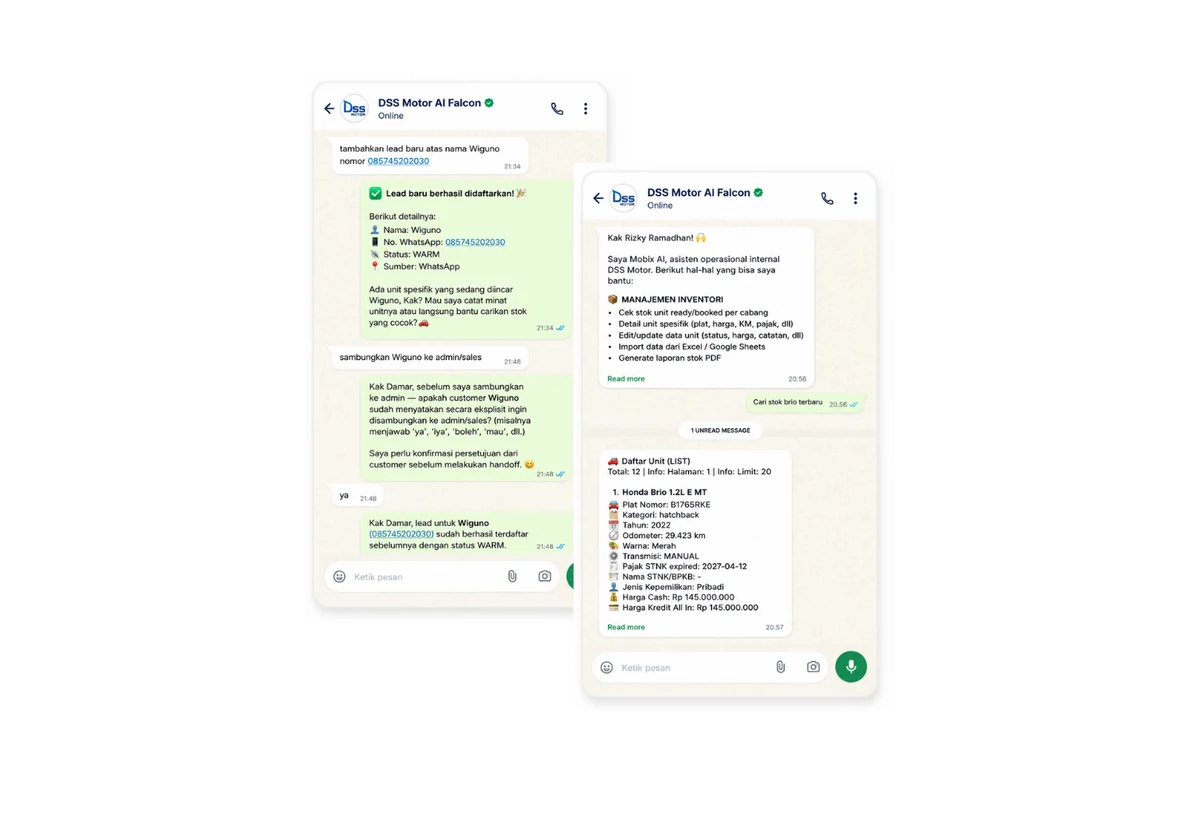
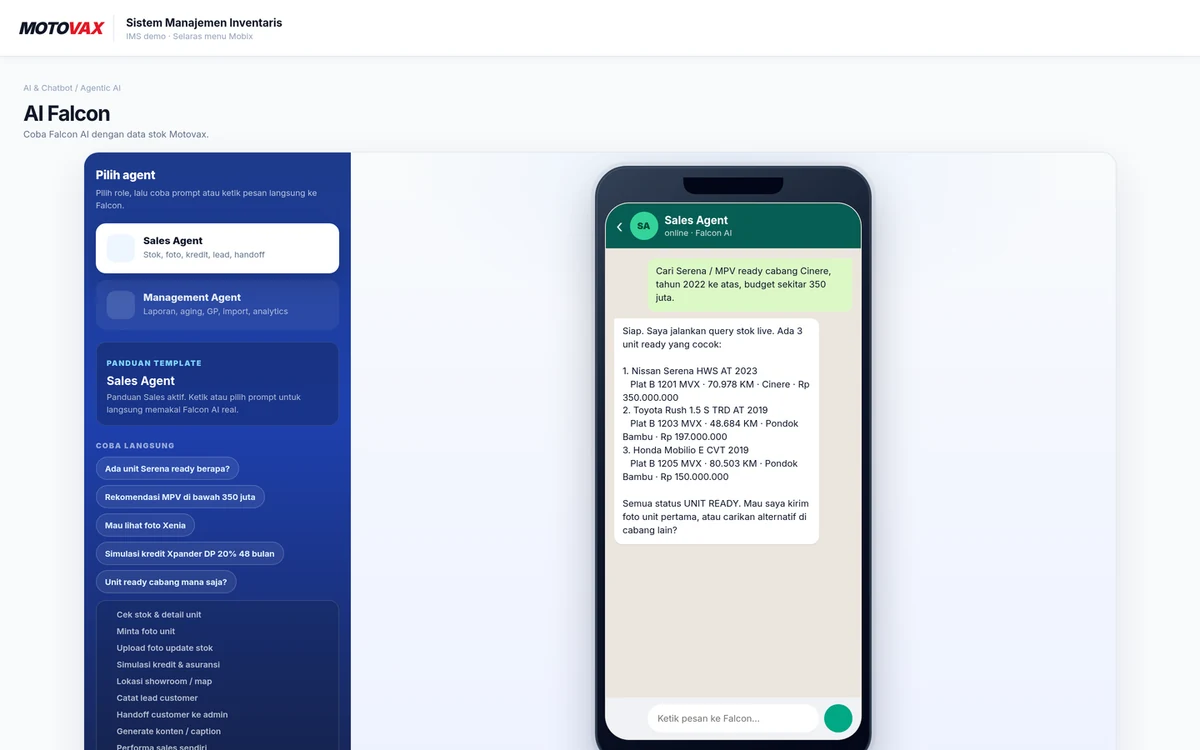
fix(inventory-falcon-ai): bedakan screenshot tiap tool Falcon
Empat capability memakai file query yang sama. Tiap point sekarang
punya screenshot 1440x900 sendiri: query stok, foto+alternatif,
laporan sesuai peran, unit per cabang, dan import+katalog API.

diff --git a/fitur/feature-page.js b/fitur/feature-page.js
@@ -642,13 +642,13 @@
     }
     if (id === "inventory-falcon-ai") {
       const falconPreview = previewFactory(
-        "inventory-falcon-query-public.png?v=falcon-ai-first-20260818",
+        "inventory-falcon-query-public.png?v=falcon-tools-20260819",
         "Falcon AI · Query stok",
       );
       falconPreview.wide = true;
       return [
         falconPreview,
-        previewFactory("core-platform-multi-branch-public.png?v=falcon-ai-first-20260818", "Inventory · Unit per cabang"),
+        previewFactory("inventory-falcon-branches-public.png?v=falcon-tools-20260819", "Inventory · Unit per cabang"),
         previews.analytics,
       ];
     }
@@ -806,38 +806,38 @@
       preview = captured("core-platform-native-ai-tools-public.png?v=20260805-2", "Core Platform · Native AI Tools", "Jasmine memakai inventori tenant untuk menjawab kebutuhan unit, memperbarui konteks lead, dan mendukung takeover serta handoff sesuai role.");
     } else if (slug === "inventory-falcon-ai" && /memahami|permintaan stok|query/i.test(capabilityTitle)) {
       preview = captured(
-        "inventory-falcon-query-public.png?v=falcon-ai-first-20260818",
+        "inventory-falcon-query-public.png?v=falcon-tools-20260819",
         "Falcon AI · Query stok",
-        "Falcon menerima permintaan stok lewat percakapan, lalu mengembalikan daftar unit live lengkap dengan plat, kilometer, cabang, dan harga.",
-        [1510, 1042],
+        "Falcon menerima permintaan stok lewat percakapan, lalu mengembalikan daftar unit ready lengkap dengan plat, kilometer, cabang, dan harga.",
+        [1440, 900],
       );
     } else if (slug === "inventory-falcon-ai" && /foto|serupa|alternatif/i.test(capabilityTitle)) {
       preview = captured(
-        "inventory-falcon-query-public.png?v=falcon-ai-first-20260818",
-        "Falcon AI · Unit dan alternatif",
-        "Hasil pencarian Falcon menampilkan unit yang cocok beserta atribut operasional, sehingga foto, unit serupa, dan alternatif bisa dikirim dari stok yang sama.",
-        [1510, 1042],
+        "inventory-falcon-photos-public.png?v=falcon-tools-20260819",
+        "Falcon AI · Foto dan alternatif",
+        "Falcon mengirim foto unit yang diminta, lalu menawarkan unit serupa dari stok ready jika perlu alternatif.",
+        [1440, 900],
       );
     } else if (slug === "inventory-falcon-ai" && /laporan|peran|aging/i.test(capabilityTitle)) {
       preview = captured(
-        "inventory-falcon-query-public.png?v=falcon-ai-first-20260818",
-        "Falcon AI · Tool sesuai peran",
-        "Menu Falcon memperlihatkan cek stok, detail unit, edit data, import Excel atau Google Sheets, dan laporan stok PDF sesuai permission pengguna.",
-        [1510, 1042],
+        "inventory-falcon-report-public.png?v=falcon-tools-20260819",
+        "Falcon AI · Laporan sesuai peran",
+        "Management mendapat laporan stok per cabang dan aging unit dari percakapan yang sama, sesuai permission.",
+        [1440, 900],
       );
     } else if (slug === "inventory-falcon-ai" && /listing|multi-cabang/i.test(capabilityTitle)) {
       preview = captured(
-        "core-platform-multi-branch-public.png?v=falcon-ai-first-20260818",
+        "inventory-falcon-branches-public.png?v=falcon-tools-20260819",
         "Inventory · Unit per cabang",
-        "Stok ready, booked, dan kelengkapan foto terlihat per cabang sebagai sumber kebenaran yang dibaca Falcon.",
-        [1586, 992],
+        "Stok ready, booked, sold, dan kelengkapan foto terlihat per cabang sebagai sumber kebenaran yang dibaca Falcon.",
+        [1440, 900],
       );
     } else if (slug === "inventory-falcon-ai" && /import|validasi|katalog/i.test(capabilityTitle)) {
       preview = captured(
-        "inventory-falcon-query-public.png?v=falcon-ai-first-20260818",
-        "Falcon AI · Import dan data live",
-        "Falcon dapat mengimpor listing lewat Excel atau Google Sheets dari percakapan, sementara katalog API memakai stok aktif yang sama.",
-        [1510, 1042],
+        "inventory-falcon-import-public.png?v=falcon-tools-20260819",
+        "Inventory · Import dan katalog API",
+        "Import Excel atau Google Sheets menampilkan warning identitas, lalu stok aktif disajikan ke aplikasi eksternal lewat katalog API.",
+        [1440, 900],
       );
     } else if (slug === "social-media-sora-ai" && /content studio|visual/i.test(capabilityTitle)) {
       preview = captured("product-social-studio.png", "Social Media · Content Studio", "Unit inventory dipilih sebagai sumber desain dan materi konten.");

diff --git a/fitur/inventory-falcon-ai.html b/fitur/inventory-falcon-ai.html
@@ -64,7 +64,7 @@
 
     <script>window.__FEATURE_SLUG__ = "inventory-falcon-ai";</script>
     <script src="./features-data.js?v=falcon-copy-20260819"></script>
-    <script src="./feature-page.js?v=falcon-copy-20260819"></script>
+    <script src="./feature-page.js?v=falcon-tools-20260819"></script>
     <script src="../script.js?v=ai-first-tools-20260819"></script>
   </body>
 </html>
